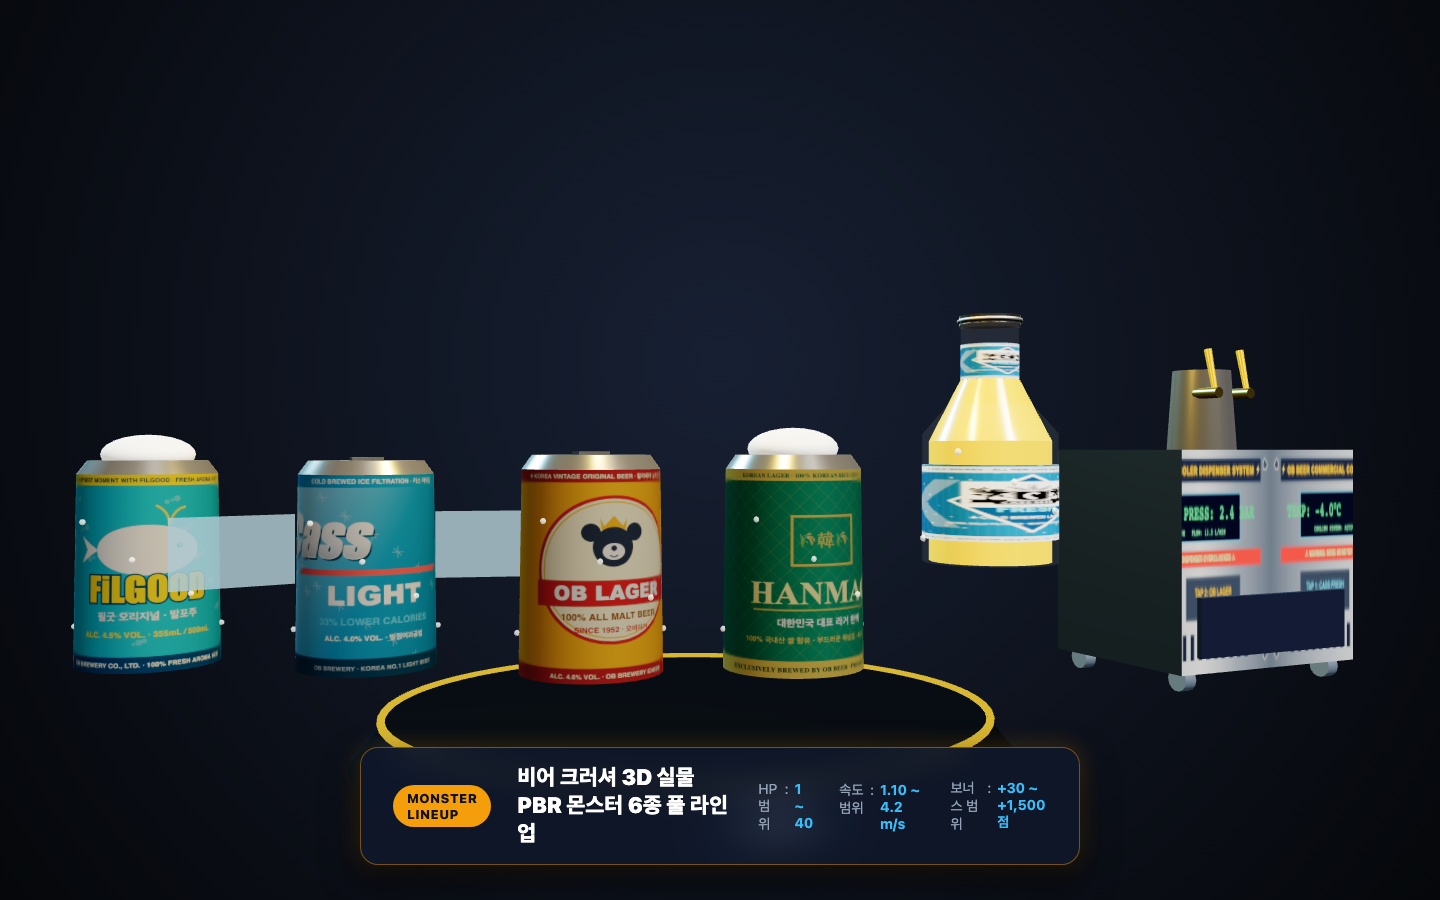
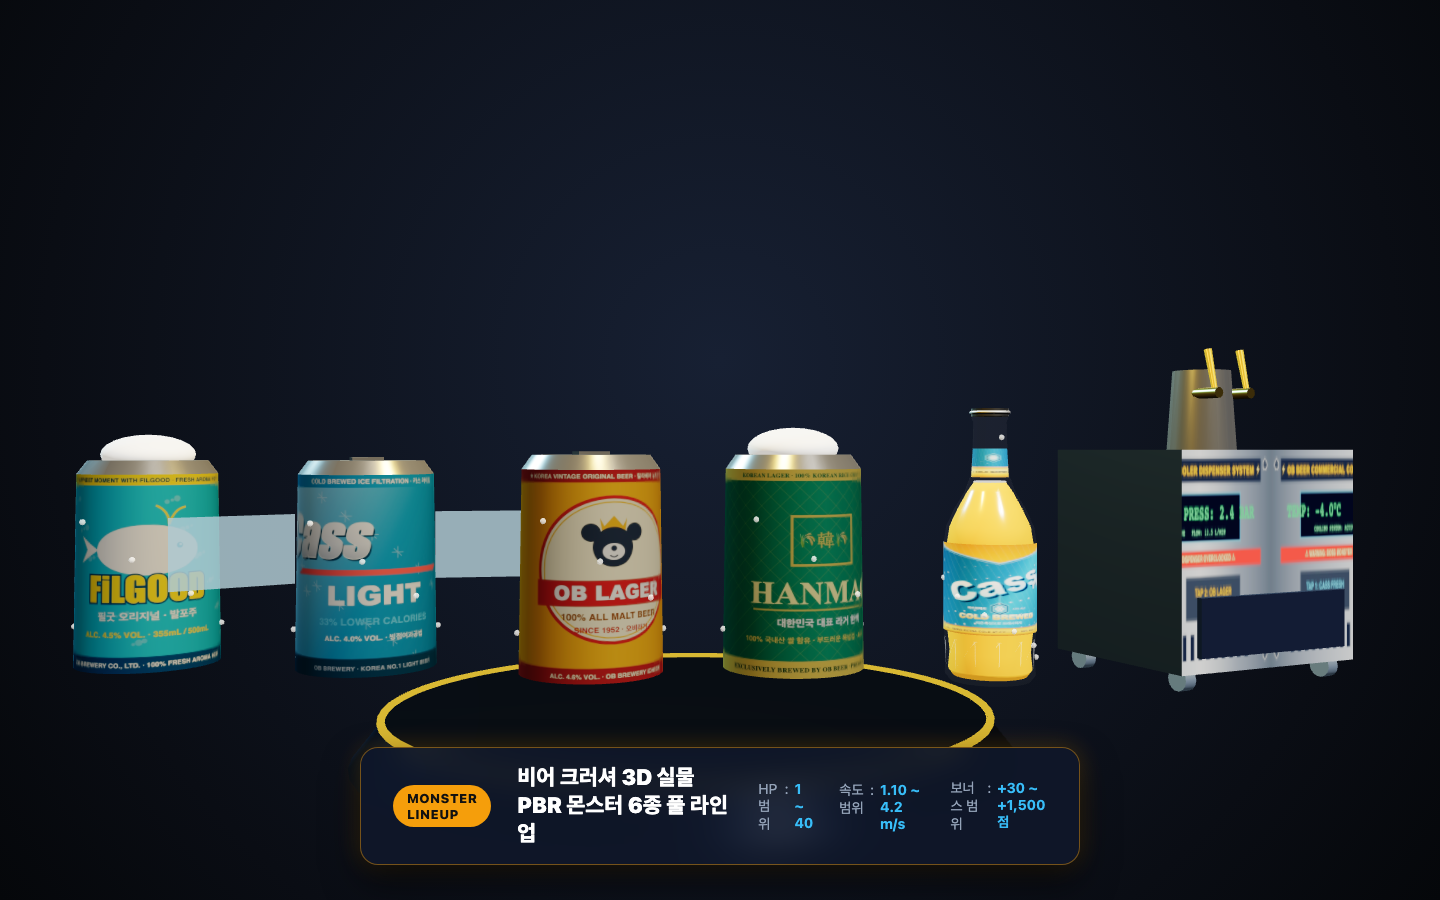
docs: synchronize slim long-neck Cass Fresh bottle in studio and refresh all codex screenshots
Plan: 2026-11-02-real-cass-fresh-longneck-bottle
Phase: P01-real-cass-fresh-longneck-bottle
Task: T03-studio-sync-and-visual-verification

- Update monster-studio.html bottle builder with slim long-neck LatheGeometry, amber liquid headspace, and dedicated bottle-neck label
- Recapture monster-05-cass-bottle.png, monster-lineup-all.png, and screen-04-pc-gameplay.png
- Visually verify captured renders against reference Cass Fresh bottle image

Changed region(s): [[0.625, 0.3422, 0.75, 0.7778]]

diff --git a/docs/monster-studio.html b/docs/monster-studio.html
@@ -184,75 +184,121 @@
           g.add(wr);
         }
       } else if (kind === 'bottle') {
-        // All New Cass 500ml Transparent Glass Bottle
+        // All New Cass 500ml Transparent Glass Bottle (Slim Long-neck Lathe Profile)
         const glassMat = new THREE.MeshPhysicalMaterial({
           color: 0xffffff,
           transparent: true,
-          opacity: 0.55,
-          transmission: 0.88,
+          opacity: 0.38,
+          transmission: 0.92,
           ior: 1.52,
-          roughness: 0.05,
+          roughness: 0.04,
           metalness: 0.05,
           clearcoat: 1.0,
+          clearcoatRoughness: 0.04,
         });
-        const liquidMat = new THREE.MeshStandardMaterial({ color: 0xf59e0b, roughness: 0.2, metalness: 0.08 });
 
-        // Outer glass body
-        const glassBody = new THREE.Mesh(new THREE.CylinderGeometry(0.42, 0.42, 0.8, 24), glassMat);
-        glassBody.position.y = 0.4;
+        // 1. Outer Glass Body via LatheGeometry (Slim 1:3 ratio, seamless curved long-neck)
+        const glassPoints = [
+          new THREE.Vector2(0.0, -0.74),
+          new THREE.Vector2(0.25, -0.74),
+          new THREE.Vector2(0.28, -0.70),
+          new THREE.Vector2(0.27, -0.56), // Lower crystal curve
+          new THREE.Vector2(0.285, -0.42),
+          new THREE.Vector2(0.285, 0.12),  // Main slim cylinder
+          new THREE.Vector2(0.27, 0.22),
+          new THREE.Vector2(0.22, 0.33),
+          new THREE.Vector2(0.155, 0.44),
+          new THREE.Vector2(0.116, 0.55),  // Curved shoulder
+          new THREE.Vector2(0.106, 0.72),
+          new THREE.Vector2(0.102, 0.88),  // Elongated long-neck
+          new THREE.Vector2(0.114, 0.90),
+          new THREE.Vector2(0.101, 0.92),  // Lip rim
+        ];
+        const glassBody = new THREE.Mesh(new THREE.LatheGeometry(glassPoints, 36), glassMat);
         g.add(glassBody);
 
-        // Cass Fresh Label mapped cylinder
+        // 2. Inner Golden Amber Beer Liquid (Filled up to shoulder y = 0.50, clear glass headspace in neck)
+        const liquidPoints = [
+          new THREE.Vector2(0.0, -0.71),
+          new THREE.Vector2(0.23, -0.71),
+          new THREE.Vector2(0.26, -0.67),
+          new THREE.Vector2(0.25, -0.56),
+          new THREE.Vector2(0.265, -0.42),
+          new THREE.Vector2(0.265, 0.12),
+          new THREE.Vector2(0.25, 0.22),
+          new THREE.Vector2(0.20, 0.33),
+          new THREE.Vector2(0.14, 0.44),
+          new THREE.Vector2(0.098, 0.50), // Meniscus surface
+          new THREE.Vector2(0.0, 0.50),
+        ];
+        const liquidMat = new THREE.MeshStandardMaterial({
+          color: 0xd97706,
+          emissive: 0x451a03,
+          emissiveIntensity: 0.22,
+          roughness: 0.16,
+          metalness: 0.08,
+        });
+        const liquidMesh = new THREE.Mesh(new THREE.LatheGeometry(liquidPoints, 28), liquidMat);
+        g.add(liquidMesh);
+
+        // Meniscus foam ring at top of liquid
+        const meniscus = new THREE.Mesh(
+          new THREE.TorusGeometry(0.094, 0.008, 8, 32),
+          new THREE.MeshBasicMaterial({ color: 0xfffbeb })
+        );
+        meniscus.rotation.x = Math.PI / 2;
+        meniscus.position.y = 0.50;
+        g.add(meniscus);
+
+        // 3. Lower Crystal Facet Ring (waist embossing)
+        const facetMesh = new THREE.Mesh(
+          new THREE.CylinderGeometry(0.282, 0.272, 0.18, 12, 1, true),
+          new THREE.MeshStandardMaterial({ color: 0xffffff, wireframe: true, transparent: true, opacity: 0.28, roughness: 0.1 })
+        );
+        facetMesh.position.y = -0.56;
+        g.add(facetMesh);
+
+        // 4. Authentic V-Cut Body Label (Cylinder shell, openEnded)
         const labelTex = loadLabelTex('bottle');
-        const labelMat = new THREE.MeshStandardMaterial({ map: labelTex, roughness: 0.35, metalness: 0.1 });
-        const labelMesh = new THREE.Mesh(new THREE.CylinderGeometry(0.423, 0.423, 0.46, 24), labelMat);
-        labelMesh.position.y = 0.38;
+        const labelMat = new THREE.MeshStandardMaterial({ map: labelTex, roughness: 0.30, metalness: 0.15 });
+        const labelMesh = new THREE.Mesh(new THREE.CylinderGeometry(0.288, 0.288, 0.55, 36, 1, true), labelMat);
+        labelMesh.position.y = -0.15;
         g.add(labelMesh);
 
-        // Neck Label mapped cylinder (All New Cass blue ribbon)
-        const neckLabelMesh = new THREE.Mesh(new THREE.CylinderGeometry(0.183, 0.183, 0.22, 24), labelMat);
-        neckLabelMesh.position.y = 1.25;
+        // 5. Dedicated COLD BREWED Collar Neck Label (Tapered cylinder shell, openEnded)
+        const neckTex = loadLabelTex('bottle-neck');
+        const neckLabelMat = new THREE.MeshStandardMaterial({ map: neckTex, roughness: 0.30, metalness: 0.15 });
+        const neckLabelMesh = new THREE.Mesh(new THREE.CylinderGeometry(0.106, 0.116, 0.18, 32, 1, true), neckLabelMat);
+        neckLabelMesh.position.y = 0.62;
         g.add(neckLabelMesh);
 
-        // Condensation water droplets
-        const dropMat = new THREE.MeshPhysicalMaterial({ color: 0xffffff, transparent: true, opacity: 0.85, roughness: 0.05, ior: 1.33 });
-        for (let i = 0; i < 8; i++) {
-          const drop = new THREE.Mesh(new THREE.SphereGeometry(0.022, 6, 6), dropMat);
-          const angle = (i * Math.PI) / 4 + 0.3;
-          drop.position.set(Math.cos(angle) * 0.43, 0.15 + (i % 4) * 0.18, Math.sin(angle) * 0.43);
+        // 6. Surface Condensation Water Droplets
+        const dropMat = new THREE.MeshPhysicalMaterial({ color: 0xffffff, transparent: true, opacity: 0.85, roughness: 0.04, ior: 1.33 });
+        for (let i = 0; i < 10; i++) {
+          const drop = new THREE.Mesh(new THREE.SphereGeometry(0.018, 6, 6), dropMat);
+          const angle = (i * Math.PI) / 5;
+          const isNeck = i > 6;
+          const rDrop = isNeck ? 0.109 : 0.289;
+          const yDrop = isNeck ? 0.56 + (i - 7) * 0.11 : -0.60 + i * 0.10;
+          drop.position.set(Math.cos(angle) * rDrop, yDrop, Math.sin(angle) * rDrop);
           g.add(drop);
         }
 
-        // Shoulder
-        const shoulder = new THREE.Mesh(new THREE.CylinderGeometry(0.18, 0.42, 0.28, 24), glassMat);
-        shoulder.position.y = 0.94;
-        g.add(shoulder);
+        // 7. Rising Carbonation Bubbles
+        const bubbleMat = new THREE.MeshBasicMaterial({ color: 0xfffbeb });
+        for (let i = 0; i < 8; i++) {
+          const bubble = new THREE.Mesh(new THREE.SphereGeometry(0.016, 6, 6), bubbleMat);
+          const angle = (i * Math.PI) / 4;
+          const br = 0.06 + (i % 3) * 0.055;
+          bubble.position.set(Math.cos(angle) * br, -0.55 + i * 0.12, Math.sin(angle) * br);
+          g.add(bubble);
+        }
 
-        // Neck
-        const neck = new THREE.Mesh(new THREE.CylinderGeometry(0.18, 0.18, 0.4, 24), glassMat);
-        neck.position.y = 1.28;
-        g.add(neck);
-
-        // Lip rim
-        const lip = new THREE.Mesh(new THREE.TorusGeometry(0.17, 0.024, 8, 24), glassMat);
-        lip.rotation.x = Math.PI / 2;
-        lip.position.y = 1.48;
-        g.add(lip);
-
-        // Inner beer liquid
-        const liquidBody = new THREE.Mesh(new THREE.CylinderGeometry(0.38, 0.38, 0.75, 24), liquidMat);
-        liquidBody.position.y = 0.38;
-        g.add(liquidBody);
-
-        const liquidNeck = new THREE.Mesh(new THREE.CylinderGeometry(0.15, 0.38, 0.45, 24), liquidMat);
-        liquidNeck.position.y = 0.98;
-        g.add(liquidNeck);
-
-        // Silver crown cap
+        // 8. Silver Crown Cap
         const capMat = new THREE.MeshStandardMaterial({ color: 0xe2e8f0, metalness: 0.95, roughness: 0.18 });
-        const crownCap = new THREE.Mesh(new THREE.CylinderGeometry(0.19, 0.19, 0.06, 20), capMat);
-        crownCap.position.y = 1.51;
-        const crimpRim = new THREE.Mesh(new THREE.TorusGeometry(0.19, 0.015, 8, 20), capMat);
+        const crownCap = new THREE.Mesh(new THREE.CylinderGeometry(0.116, 0.116, 0.05, 24), capMat);
+        crownCap.position.y = 0.935;
+        const crimpRim = new THREE.Mesh(new THREE.TorusGeometry(0.115, 0.012, 8, 24), capMat);
         crimpRim.rotation.x = Math.PI / 2;
         crownCap.add(crimpRim);
         g.add(crownCap);
@@ -452,7 +498,7 @@
     window.showMonster = function(kind) {
       if (activeModel) scene.remove(activeModel);
       activeModel = buildModel(kind);
-      activeModel.rotation.y = 0.35;
+      activeModel.rotation.y = kind === 'bottle' ? -0.15 : 0.35;
       scene.add(activeModel);
 
       if (kind === 'boss') {
@@ -490,7 +536,7 @@
         const m = buildModel(item.kind);
         m.position.set(item.x, 0, item.z);
         m.scale.setScalar(item.scale);
-        m.rotation.y = 0.28;
+        m.rotation.y = item.kind === 'bottle' ? -0.15 : 0.28;
         group.add(m);
       });
 

diff --git a/.memory/phases/2026-11-02-real-cass-fresh-longneck-bottle/P01-real-cass-fresh-longneck-bottle/T03-studio-sync-and-visual-verification.md b/.memory/phases/2026-11-02-real-cass-fresh-longneck-bottle/P01-real-cass-fresh-longneck-bottle/T03-studio-sync-and-visual-verification.md
@@ -1,0 +1,64 @@
+# Task: T03 몬스터 스튜디오(`monster-studio.html`) 슬림 롱넥 병맥주 동기화, 스크린샷 전면 재캡처 및 시각 검수
+
+## Status: done
+
+## Goal
+`docs/monster-studio.html`의 `buildModel('bottle')`을 인게임(`TargetModels3D.ts`)과 동일한 **슬림 롱넥 `LatheGeometry` 카스 프레시 유리병 + 황금빛 앰버 액체(상단 투명 유리목) + 정품 V-컷 바디 라벨(`bottle.jpg`) & 전용 넥 라벨(`bottle-neck.jpg`)**로 동기화하고, `scripts/capture-all.mjs`를 실행해 도감 및 인게임 스크린샷을 갱신한 뒤 캡처된 이미지를 직접 시각 검수하여 완료한다.
+
+## Decision Summary
+- D02 반영: 스튜디오 3D 뷰어의 병맥주 모델을 단상 중앙(`y = -0.78 ~ +0.98`)에 날씬한 롱넥 비율로 배치하고, 바디 라벨(`bottle.jpg`)과 넥 라벨(`bottle-neck.jpg`)을 각각 `openEnded: true` 실린더 쉘로 매핑한다.
+- 캡처 완료 후 `docs/screens/monster-05-cass-bottle.png`와 `docs/screens/monster-lineup-all.png`를 직접 읽어 사용자 참조 이미지(`scripts/assets/cass_fresh_ref.jpg`)와 비주얼이 일치하는지 최종 확인한다.
+
+## Implementation
+
+### I01. `docs/monster-studio.html` 슬림 롱넥 병맥주 지오메트리 및 분리형 라벨 동기화
+
+- Related Files:
+  - `docs/monster-studio.html` :: `buildModel('bottle')` — 슬림 롱넥 `LatheGeometry`, 황금빛 앰버 액체(투명 목 공간), 하단 크리스탈 패싯, `bottle` 및 `bottle-neck` 분리 매핑; modify
+
+#### Details
+- 스튜디오 스케일(캔 높이 `1.18` 기준, 병맥주는 롱넥이므로 전체 높이 약 `1.70`, `y = -0.75` 바닥 ~ `y = +0.95` 뚜껑)로 `LatheGeometry` 프로파일을 구성한다:
+  - 바디 반경 `0.285`, 숄더 곡선(`y = 0.22 ~ 0.56`), 슬림 롱넥 반경 `0.105` (`y = 0.56 ~ 0.92`).
+  - 내부 황금빛 앰버 액체는 `y = -0.72 ~ +0.52`까지만 채우고, `y = 0.52 ~ 0.92` 목 상단은 투명한 빈 유리로 비워둔다.
+  - 바디 라벨(`loadLabelTex('bottle')`)은 `y = -0.15`, 반경 `0.288`, 높이 `0.54` (`openEnded: true`).
+  - 넥 라벨(`loadLabelTex('bottle-neck')`)은 `y = +0.62`, 상단 반경 `0.108`, 하단 반경 `0.118`, 높이 `0.16` (`openEnded: true`).
+
+### I02. 전체 스크린샷 재캡처 및 시각 검수
+
+- Related Files:
+  - `scripts/capture-all.mjs` — Playwright 자동 캡처 실행; read-only
+  - `docs/screens/monster-05-cass-bottle.png` — 슬림 롱넥 카스 프레시 단독 컷; modify
+  - `docs/screens/monster-05-draft-mug.png` — 하위 호환 파일 동기화; modify
+  - `docs/screens/monster-lineup-all.png` — 6종 몬스터 풀 라인업; modify
+  - `docs/screens/screen-04-pc-gameplay.png` — 인게임 플레이 화면; modify
+
+#### Details
+- Vite 서버 구동 상태에서 `node scripts/capture-all.mjs` 실행.
+- 캡처된 `docs/screens/monster-05-cass-bottle.png`를 읽어들여 체커보드 아티팩트가 없고 참조 사진(`cass_fresh_ref.jpg`)과 동일한 슬림 롱넥 실루엣과 대각선 `Cass Fresh` V-컷 블루/골드 라벨, `COLD BREWED` 넥 라벨이 선명하게 렌더링되었는지 확인한다.
+- `npm test && npx tsc --noEmit` 실행으로 전체 테스트 및 타입 무결성을 검증한다.
+
+## Acceptance Criteria
+- [ ] `docs/screens/monster-05-cass-bottle.png`에서 슬림 롱넥 투명 유리병, 황금빛 앰버 맥주 액체, 투명한 상단 유리목, 대각선 `Cass Fresh` V-컷 바디 라벨, `COLD BREWED` 넥 라벨이 왜곡 없이 선명하게 보인다.
+- [ ] `docs/screens/monster-lineup-all.png` 및 `docs/screens/screen-04-pc-gameplay.png`가 최신 모델로 갱신되었다.
+- [ ] `npm test` (32/32 통과) 및 `npx tsc --noEmit` (에러 0건)이 통과한다.
+
+## Validation
+- `npm test && npx tsc --noEmit` — 전체 테스트 및 타입체크 통과
+
+## Commit Message
+```text
+docs: synchronize slim long-neck Cass Fresh bottle in studio and refresh all codex screenshots
+
+Plan: 2026-11-02-real-cass-fresh-longneck-bottle
+Phase: P01-real-cass-fresh-longneck-bottle
+Task: T03-studio-sync-and-visual-verification
+
+- Update monster-studio.html bottle builder with slim long-neck LatheGeometry, amber liquid headspace, and dedicated bottle-neck label
+- Recapture monster-05-cass-bottle.png, monster-lineup-all.png, and screen-04-pc-gameplay.png
+- Visually verify captured renders against reference Cass Fresh bottle image
+```
+
+## Progress
+- [x] 구현 완료
+- [x] 검증 통과
+- commit: done
